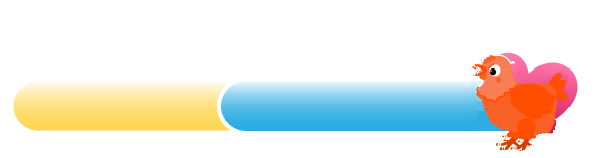
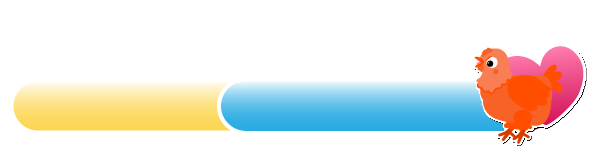
fullScreen(), togglesound() and their functions implemented & end boss status bars updated

Changed region(s): [[0.7866, 0.2785, 0.9983, 0.962]]

diff --git a/js/game.js b/js/game.js
@@ -9,6 +9,7 @@ function init(restart = false) {
     canvas = document.getElementById("canvas");
     world = new World(canvas, keyboard);
     hideScreens();
+    adjustControls();
     playGameMusic();
 }
 
@@ -17,27 +18,35 @@ function hideScreens() {
     document.getElementById("gameOverScreen").style.display = "none";
 }
 
-function playGameMusic() {
-    playSound(GAME_AUDIO, false, 0, true, 0.1);
-}
-
-function pauseGameMusic() {
-    pauseSound(GAME_AUDIO);
+function adjustControls() {
+    let divBtnControl = document.getElementById("divBtnControl");
+    const hasClass = divBtnControl.classList.contains("game-running");
+    if (!hasClass) {
+        divBtnControl.classList.add("game-running");
+        divBtnControl.style.justifyContent = "center";
+        divBtnControl.style.gap = (document.fullscreenElement) ? "40px" : "20px";
+    }else {
+        divBtnControl.classList.remove("game-running");
+        divBtnControl.style.justifyContent = "space-around";
+        divBtnControl.style.gap = "0px";
+    }
 }
 
 function showGameOver(win = true) {
     pauseGameMusic();
     if (win) {
-        document.getElementById("gameOverScreen").style.display = "flex";
+        document.getElementById("gameOverScreen").style.display = "block";
         document.getElementById("gameOverScreen").style.backgroundImage = "url('img/9_intro_outro_screens/game_over/game over!.png')";
     }else {
-        document.getElementById("gameOverScreen").style.display = "flex";
+        document.getElementById("gameOverScreen").style.display = "block";
         document.getElementById("gameOverScreen").style.backgroundImage = "url('img/9_intro_outro_screens/game_over/oh no you lost!.png')";
     }
 }
 
 function returnToStart() {
-    window.location.reload();
+    resetGame();
+    document.getElementById("startScreen").style.display = "block";
+    document.getElementById("gameOverScreen").style.display = "none";
 }
 
 function resetGame() {
@@ -50,4 +59,53 @@ function resetGame() {
     YES_AUDIO.currentTime = 0;
     BOSS_DEAD_AUDIO.currentTime = 0;
     audioPaused = false;
+    adjustControls();
 }
+
+function fullScreen() {
+    let element = document.getElementById("gameContainer");
+    let fullscreenBtn = document.getElementById("fullscreenBtn");
+    let canvas = document.getElementById("canvas");
+    if(!document.fullscreenElement) {
+        enterFullscreen(element);
+        adjustCanvasSize(canvas, "100vw", "100vh");
+        adjustBtnsControl("40px")
+        fullscreenBtn.src = "./img/10_additional_icons/fullscreen_off.png";
+    }else {
+        exitFullscreen();
+        adjustCanvasSize(canvas, "720px", "480px");
+        adjustBtnsControl("20px")
+        fullscreenBtn.src = "./img/10_additional_icons/fullscreen_on.png";
+    }
+}
+
+function enterFullscreen(element) {
+    if(element.requestFullscreen) {
+      element.requestFullscreen();
+    } else if(element.msRequestFullscreen) {      // for IE11 (remove June 15, 2022)
+      element.msRequestFullscreen();
+    } else if(element.webkitRequestFullscreen) {  // iOS Safari
+      element.webkitRequestFullscreen();
+    }
+}
+
+function exitFullscreen() {
+    if(document.exitFullscreen) {
+      document.exitFullscreen();
+    } else if(document.webkitExitFullscreen) {
+      document.webkitExitFullscreen();
+    } else if (document.mozFullScreen) { 
+        document.mozCancelFullScreen(); 
+    }
+}
+
+function adjustCanvasSize(canvas, width, height) {
+    canvas.style.width = width;
+    canvas.style.height = height;
+}
+
+function adjustBtnsControl(gap = "0px") {
+    let divBtnControl = document.getElementById("divBtnControl");
+    const hasClass = divBtnControl.classList.contains("game-running");
+    divBtnControl.style.gap = (hasClass) ? gap : "0px";
+} 

diff --git a/script.css b/script.css
@@ -2,17 +2,31 @@ body {
     display: flex;
     flex-direction: column;
     align-items: center;
+    justify-content: center;
+    margin: 0;
+    min-height: 100vh;
 }
 
 .game-container {
     position: relative;
-    display: flex;
-    justify-content: center;
+    height: 480px;
+    width: 720px;
 }
 
-.game-container canvas, .start-screen {
+canvas,
+.start-screen,
+.game-over-screen {
     position: absolute;
-  }
+}
+
+.content {
+    display: contents;
+    align-items: center;
+    justify-content: center;
+    position: relative;
+    height: 480px;
+    width: 720px;
+}
 
 canvas {
     background-color: black;
@@ -20,31 +34,32 @@ canvas {
 
 .start-screen {
     background-image: url("img/9_intro_outro_screens/start/startscreen_1.png");
-    background-repeat: no-repeat;
-    background-size: 100% 100%;
-    width: 720px;
-    height: 480px;
     z-index: 1;
 }
 
 .game-over-screen {
     display: none;
     background-image: url("img/9_intro_outro_screens/game_over/game over!.png");
+    z-index: 2;
+}
+
+.start-screen,
+.game-over-screen {
     background-repeat: no-repeat;
     background-size: 100% 100%;
     width: 720px;
     height: 480px;
-    z-index: 1;
 }
 
-.div-btn-start, .div-btn-g-over {
+.div-btn-start,
+.div-btn-g-over {
     display: flex;
     justify-content: center;
-    width: 100%; 
+    width: 100%;
 }
 
 .div-btn-start {
-    margin-top: 30px;
+    margin-top: 65px;
 }
 
 .div-btn-g-over {
@@ -55,32 +70,79 @@ canvas {
 }
 
 .div-btn-g-over button {
-    margin-bottom: 30px;
+    margin-bottom: 40px;
 }
 
 .btn-screen {
-	box-shadow: 0px 1px 0px 0px #fff6af;
-	background:linear-gradient(to bottom, #ffec64 5%, #ffab23 100%);
-	background-color:#ffec64;
-	border-radius:6px;
-	border:1px solid #ffaa22;
-	display:inline-block;
-	cursor:pointer;
-	color:#333333;
-	font-family:Arial;
-	font-size:15px;
-	font-weight:bold;
-	padding:6px 24px;
-	text-decoration:none;
-	text-shadow:0px 1px 0px #ffee66;
+    cursor: pointer;
+    box-shadow: 0px 1px 0px 0px #fff6af;
+    background: linear-gradient(to bottom, #ffec64 5%, #ffab23 100%);
+    background-color: #ffec64;
+    border-radius: 6px;
+    border: 1px solid #ffaa22;
+    display: inline-block;
+    cursor: pointer;
+    color: #333333;
+    font-family: Arial;
+    font-size: 15px;
+    font-weight: bold;
+    padding: 6px 24px;
+    text-decoration: none;
+    text-shadow: 0px 1px 0px #ffee66;
 }
 
 .btn-start-screen:hover {
-	background:linear-gradient(to bottom, #ffab23 5%, #ffec64 100%);
-	background-color:#ffab23;
+    background: linear-gradient(to bottom, #ffab23 5%, #ffec64 100%);
+    background-color: #ffab23;
 }
 
 .btn-start-screen:active {
-	position:relative;
-	top:1px;
+    position: relative;
+    top: 1px;
+}
+
+.div-btn-control {
+    position: absolute;
+    display: flex;
+    justify-content: space-around;
+    width: 720px;
+    height: fit-content;
+    margin-top: 25px;
+    z-index: 2;
+}
+
+.btn-control {
+    cursor: pointer;
+    width: 30px;
+    user-select: none;
+    -webkit-user-select: none;
+}
+
+:fullscreen .game-container,
+:fullscreen .start-screen,
+:fullscreen .game-over-screen {
+    width: 100vw;
+    height: 100vh;
+}
+
+:fullscreen .div-btn-start {
+    margin-top: 130px;
+}
+
+:fullscreen .btn-screen {
+    font-size: 40px;
+    padding: 18px 36px;
+}
+
+:fullscreen .div-btn-control {
+    width: 100vw;
+    margin-top: 50px;
+}
+
+:fullscreen .btn-control {
+    width: 80px;
+}
+
+:fullscreen .div-btn-g-over button {
+    margin-bottom: 80px;
 }

diff --git a/index.html b/index.html
@@ -1,10 +1,11 @@
 <!DOCTYPE html>
 <html lang="en">
+
 <head>
     <meta charset="UTF-8">
     <meta name="viewport" content="width=device-width, initial-scale=1.0">
     <title>El Pollo Loco</title>
-    <link rel="icon" href=".\img\6_salsa_bottle\bottle_rotation\1_bottle_rotation.png" type="image/png">
+    <link rel="icon" href="./img/7_statusbars/3_icons/icon_salsa_bottle.png" type="image/png">
     <link rel="stylesheet" href="script.css">
     <script src="models/drawable-object.class.js"></script>
     <script src="models/moveable-object.class.js"></script>
@@ -28,10 +29,19 @@
     <script src="levels/level1.js"></script>
     <script src="js/game.js"></script>
 </head>
+
 <body>
     <h1>El Pollo Loco</h1>
-    <div class="game-container">
-        <canvas id="canvas" width="720" height="480"></canvas>
+    <div id="gameContainer" class="game-container">
+        <div id="content" class="content">
+            <canvas id="canvas" width="720" height="480"></canvas>
+        </div>
+        <div id="divBtnControl" class="div-btn-control">
+            <img id="soundBtn" onclick="toggleSound()" class="btn-control" 
+                src="./img/10_additional_icons/sound_on.png">
+            <img id="fullscreenBtn" onclick="fullScreen()" class="btn-control"
+                src="./img/10_additional_icons/fullscreen_on.png">
+        </div>
         <div id="startScreen" class="start-screen">
             <div id="divBtnStart" class="div-btn-start">
                 <button class="btn-screen" onclick="init()">Play</button>
@@ -45,4 +55,5 @@
         </div>
     </div>
 </body>
+
 </html>

diff --git a/js/sounds.js b/js/sounds.js
@@ -12,12 +12,12 @@ const HURT_AUDIO = new Audio("./audio/hurt.mp3");
 const JUMP_AUDIO = new Audio("./audio/jump.mp3"); 
 const WALK_AUDIO = new Audio("./audio/walk.mp3");
 const YES_AUDIO = new Audio("./audio/yes.mp3");
-
+let soundMuted = false;
 
 function playSound(audio, timeout = false, time = 0, loop = false, volume = null) {
     if(volume)
         audio.volume = volume;
-    if(timeout) {
+    if(timeout && !soundMuted) {
         audio.play();
         setTimeout(() => {
             pauseSound(audio);
@@ -25,11 +25,27 @@ function playSound(audio, timeout = false, time = 0, loop = false, volume = null
     }else if(loop) {
         audio.loop = true;
         audio.play();
-    }else if(!timeout && !loop) {
+    }else if(!timeout && !loop && !soundMuted) {
         audio.play();
     }
 }
 
 function pauseSound(audio){
     audio.pause();
+}
+
+function toggleSound() {
+    soundMuted = !soundMuted;
+    GAME_AUDIO.muted = soundMuted;
+    let soundBtn = document.getElementById("soundBtn");
+    soundBtn.src = (soundMuted) ? "./img/10_additional_icons/sound_off.png" :
+                                    "./img/10_additional_icons/sound_on.png";
+}
+
+function playGameMusic() {
+    playSound(GAME_AUDIO, false, 0, true, 0.2);
+}
+
+function pauseGameMusic() {
+    pauseSound(GAME_AUDIO);
 }
